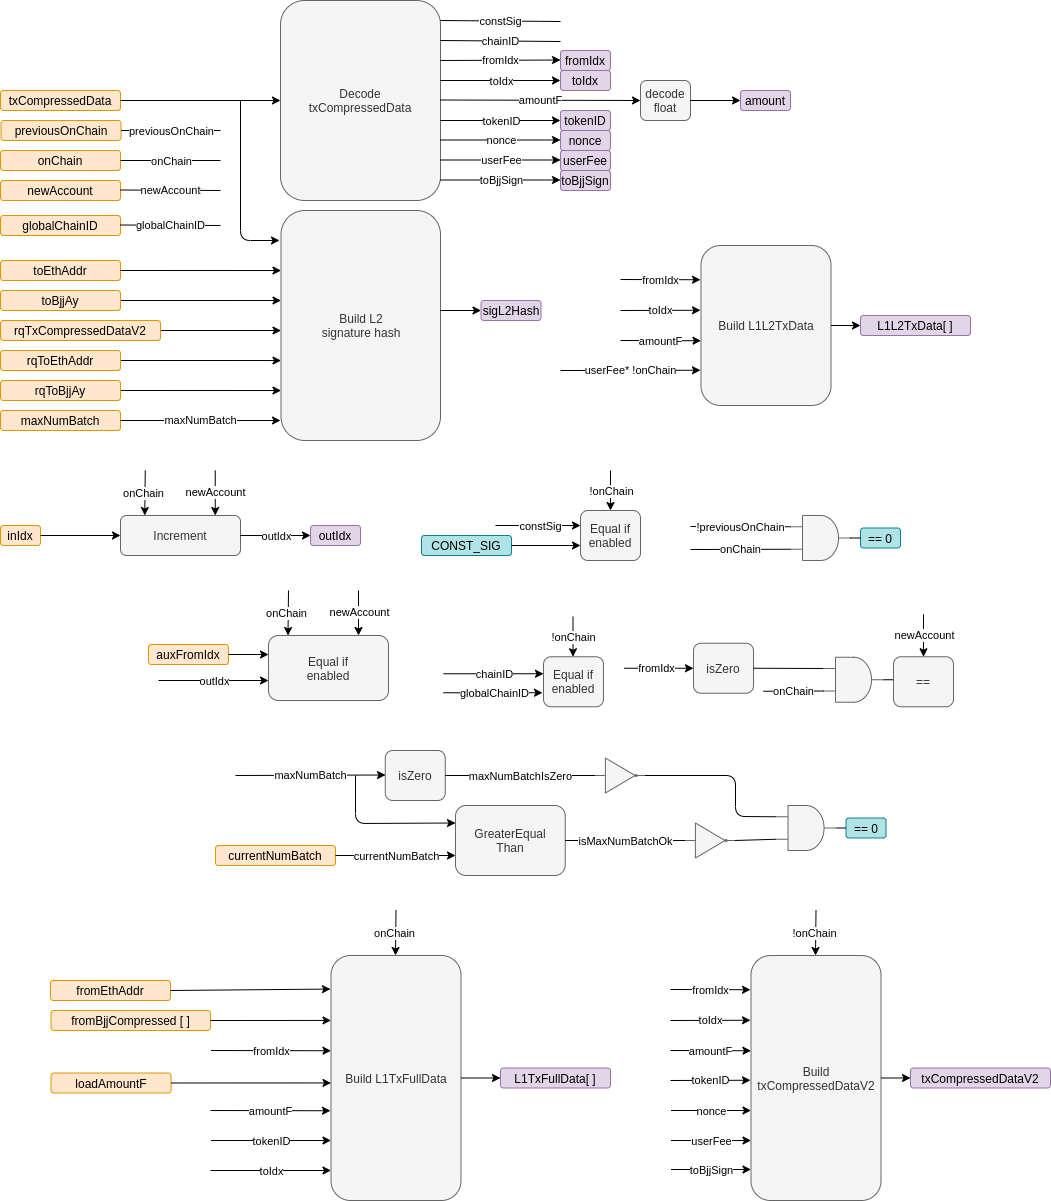
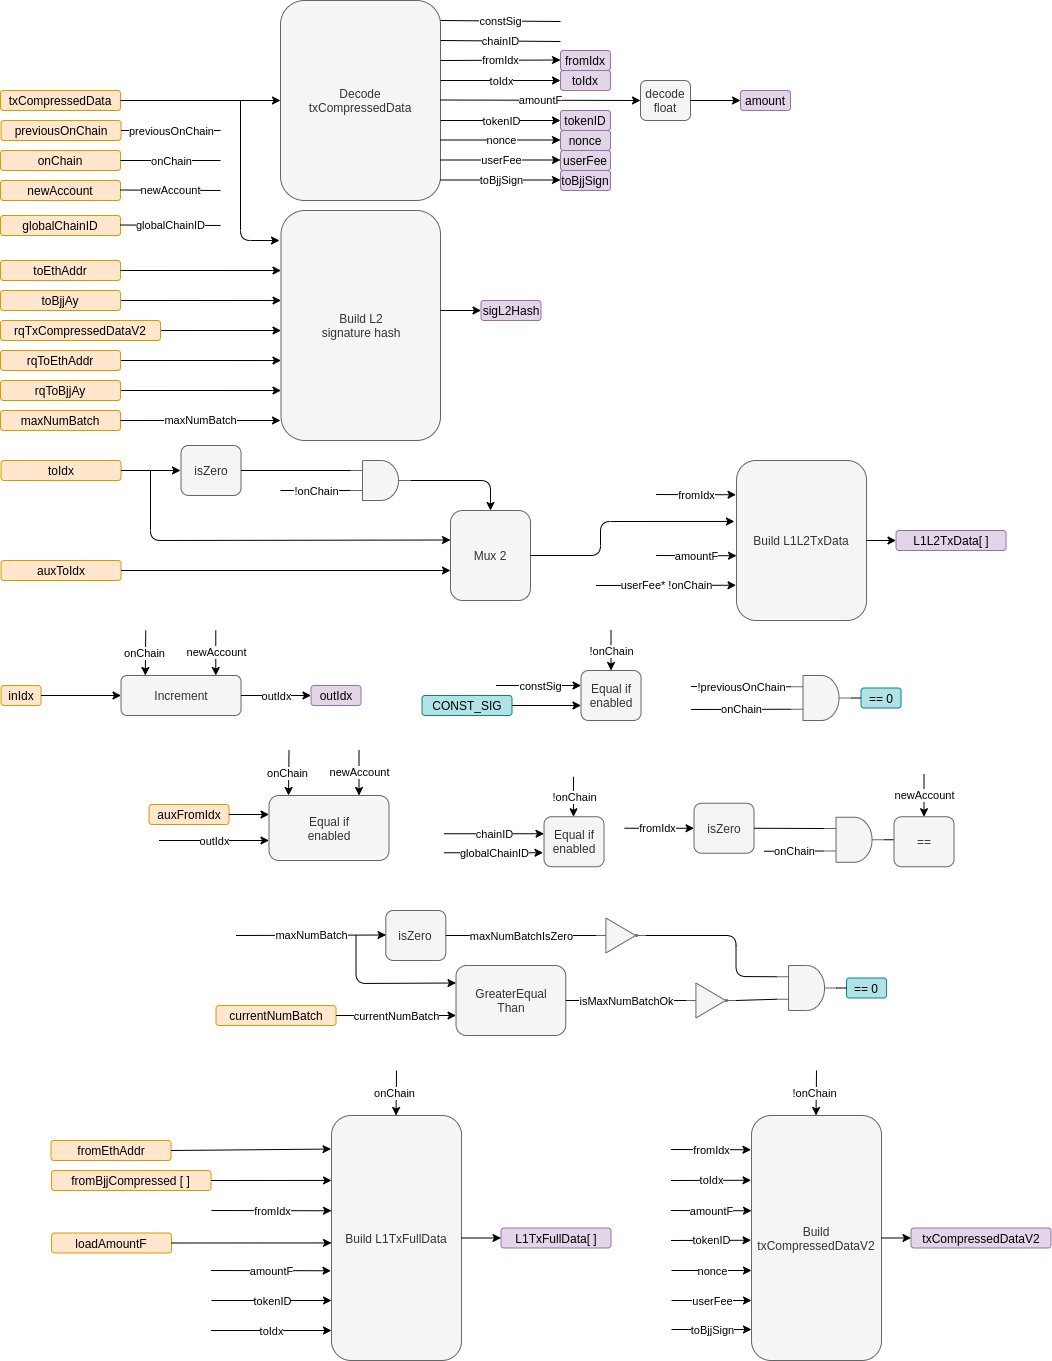
add auxToIdx to data availability

diff --git a/docs/developers/protocol/hermez-protocol/circuits/circuits.md b/docs/developers/protocol/hermez-protocol/circuits/circuits.md
@@ -231,6 +231,7 @@ Take the transaction data, decodes it and build data structures to be used in fu
 |        onChain         |     bool      |             determines if the transaction is L1 or L2              |
 |       newAccount       |     bool      |          determines if transaction creates a new account           |
 |       auxFromIdx       |    uint48     |                 auxiliary index to create accounts                 |
+|        auxToIdx        |    uint48     |     auxiliary index when signed index receiver is set to null      |
 |         inIdx          |    uint48     |                      old last index assigned                       |
 
 #### Outputs

diff --git a/docs/developers/protocol/hermez-protocol/protocol.md b/docs/developers/protocol/hermez-protocol/protocol.md
@@ -747,10 +747,11 @@ There two types of L1CoordinatorTx:
 All transactions processed in a batch must be posted on L1. This is assured by hashing all data-availability and forces the coordinator to match all his processed transactions with his posted L1 data-availability.
 
 L2 transactions data-availability struct `L2TxData`:
+> `finalToIdx` is equal to `toIdx` except when `toIdx == IDX 0` where it will be equal to `auxToIdx`
 ```
 **Buffer bytes notation**
 L2TxData: [ NLevels  bits ] fromIdx
-          [ NLevels  bits ] toIdx
+          [ NLevels  bits ] finalToIdx
           [    16  bits   ] amountF
           [     8  bits   ] fee
 ```
